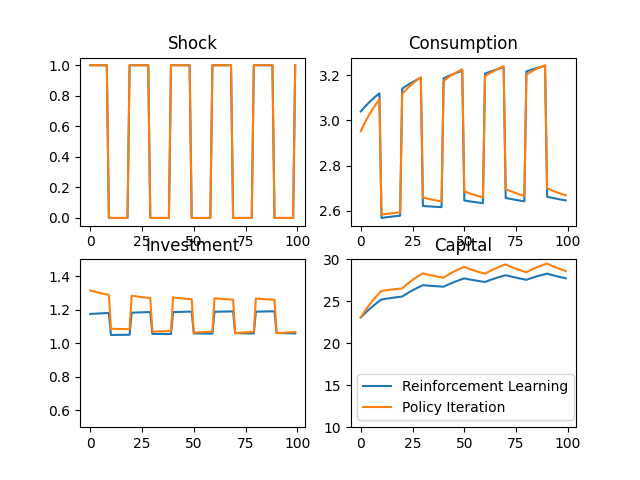
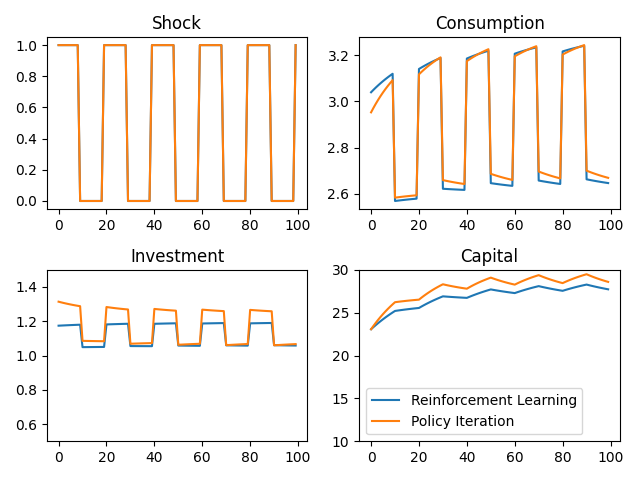
changes to analysis

diff --git a/marketsai/economies/single_agent/capital_planner_sa.py b/marketsai/economies/single_agent/capital_planner_sa.py
@@ -70,12 +70,12 @@ class Capital_planner_sa(gym.Env):
 
         # non-stochastic shocks for evaluation:
         if self.eval_mode == True:
-            self.shocks_eval_agg = {0: 1}
+            self.shocks_eval_agg = {0: 0}
             for t in range(1, self.horizon + 1):
                 self.shocks_eval_agg[t] = (
                     1
                     if (t // (1 / self.shock_agg_transition[0][1]) + 1) % 2 == 0
-                    else 1
+                    else 0
                 )
             self.shocks_eval_idtc = {0: [1 - (i % 2) for i in range(self.n_hh)]}
             for t in range(1, self.horizon + 1):

diff --git a/marketsai/Econ_algos/analysis_econ_cp_sa.py b/marketsai/Econ_algos/analysis_econ_cp_sa.py
@@ -24,7 +24,7 @@ from marketsai.utils import encode
 env_label = "capital_planner_sa"
 register_env("capital_planner_sa", Capital_planner_sa)
 
-for_public = True
+for_public = False
 env_horizon = 1000
 n_hh = 1
 n_capital = 1
@@ -224,7 +224,7 @@ plt.title("Capital")
 #     plt.savefig(
 #         "/Users/matiascovarrubias/Documents/universidad/NYU/Research/Repositories/marketsAI/marketsai/results/capital_planner_IRecon_July22_1hh.png"
 #     )
-
+plt.pyplot.tight_layout()
 if for_public == True:
     plt.savefig(
         "/home/mc5851/marketsAI/marketsai/Documents/Figures/capital_planner_IRecon_Aug3_1hh.png"
